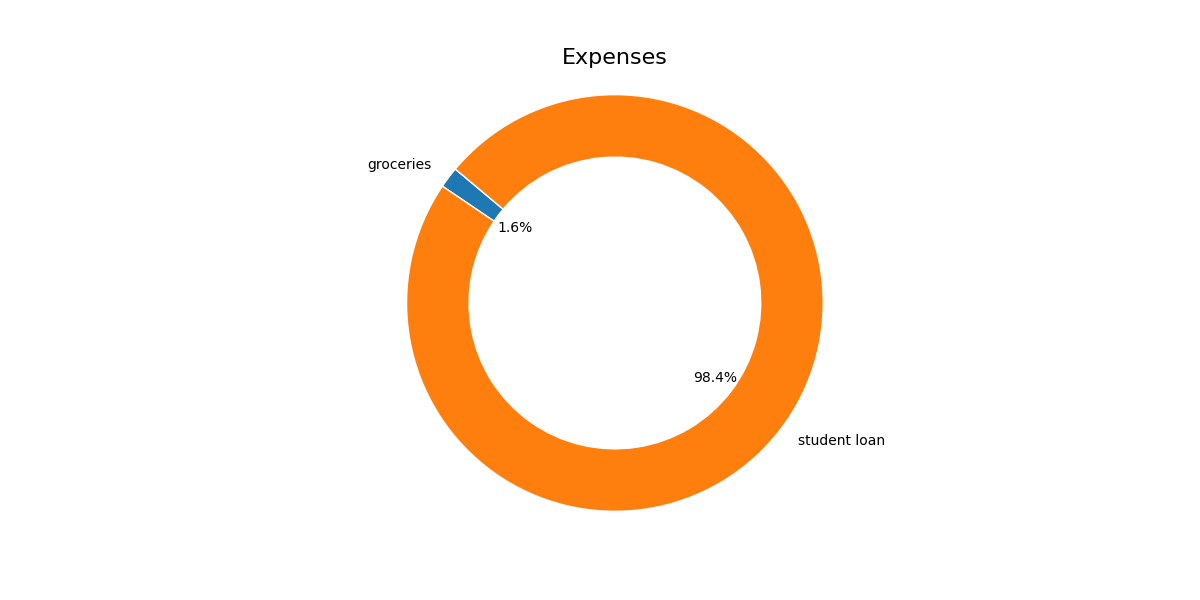
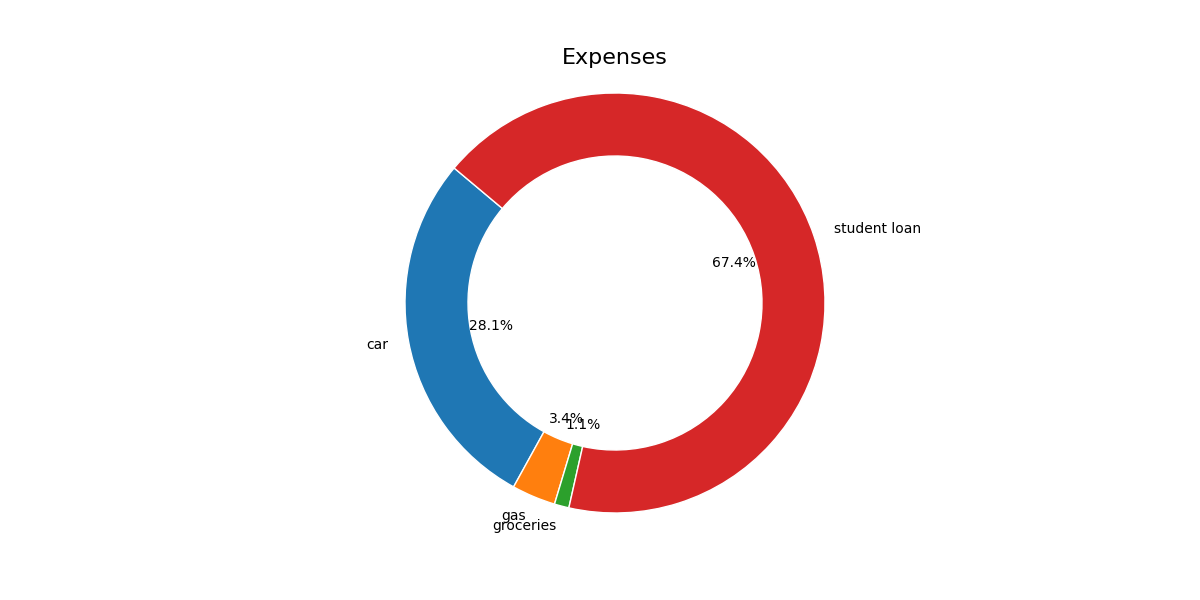
Bug fixes and fixing methods for graph production

Changed region(s): [[0.3083, 0.15, 0.7708, 0.87], [0.4008, 0.84, 0.4625, 0.9]]

diff --git a/templates/index.html b/templates/index.html
@@ -51,21 +51,7 @@
     </form>
     <h1>Finance Dashboard</h1>
 
-    {% if pie_chart_available %}
-    <h2>Expense Pie Chart</h2>
-    <img src="{{ url_for('static', filename='images/exp_pie_chart.png') }}" alt="Expenses" width="800" height="400">
-    {% else %}
-    <p>No data available for the pie chart.</p>
-    {% endif %}
-    {% with messages = get_flashed_messages() %}
-        {% if messages %}
-            <ul class="flashes">
-                {% for message in messages %}
-                    <li>{{ message }}</li>
-                {% endfor %}
-            </ul>
-        {% endif %}
-    {% endwith %}
+    
     <h3 class="header">Finance Analysis:</h3>
     <a href="excel/finance_example.xlsx" download>Download Spreadsheet</a>
     <div class=""wrapper">
@@ -94,6 +80,83 @@
             </form>
         </div>
     </div>
+    <!--Here is beginning of our tab creation-->
+    <div class="tab-nav">
+        <button class="tab-btn" data-tab="income">Income</button>
+        <button class="tab-btn" data-tab="expense">Expense</button>
+        <button class="tab-btn" data-tab="stock">Stock</button>
+    </div>
+    <div class="section-container" id="income-section">
+        {% if pie_chart_available %}
+    <h2>Income Pie Chart</h2>
+    <img src="{{ url_for('static', filename='images/inc_pie_chart.png') }}" alt="Income" width="800" height="400">
+    {% else %}
+    <p>No data available for the pie chart.</p>
+    {% endif %}
+    {% with messages = get_flashed_messages() %}
+        {% if messages %}
+            <ul class="flashes">
+                {% for message in messages %}
+                    <li>{{ message }}</li>
+                {% endfor %}
+            </ul>
+        {% endif %}
+    {% endwith %}
+    </div>
+
+    <div class="section-container" id="expense-section">
+        {% if pie_chart_available %}
+    <h2>Expense Pie Chart</h2>
+    <img src="{{ url_for('static', filename='images/exp_pie_chart.png') }}" alt="Expenses" width="800" height="400">
+    {% else %}
+    <p>No data available for the pie chart.</p>
+    {% endif %}
+    {% with messages = get_flashed_messages() %}
+        {% if messages %}
+            <ul class="flashes">
+                {% for message in messages %}
+                    <li>{{ message }}</li>
+                {% endfor %}
+            </ul>
+        {% endif %}
+    {% endwith %}
+    </div>
+
+    <div class="section-container" id="stock-section">
+        {% if pie_chart_available %}
+        <h2>Investment Pie Chart</h2>
+        <img src="{{ url_for('static', filename='images/inv_pie_chart.png') }}" alt="Investment" width="800" height="400">
+        {% else %}
+        <p>No data available for the pie chart.</p>
+        {% endif %}
+        {% with messages = get_flashed_messages() %}
+            {% if messages %}
+                <ul class="flashes">
+                    {% for message in messages %}
+                        <li>{{ message }}</li>
+                    {% endfor %}
+                </ul>
+            {% endif %}
+        {% endwith %}
+    </div>
+    <script>
+        // JavaScript for tab interaction
+        const tabButtons = document.querySelectorAll('.tab-btn');
+        const sectionContainers = document.querySelectorAll('.section-container');
+    
+        tabButtons.forEach(button => {
+            button.addEventListener('click', () => {
+                const tab = button.dataset.tab;
+                // Hide all section containers
+                sectionContainers.forEach(container => {
+                    container.style.display = 'none';
+                });
+                // Show the selected section container
+                document.getElementById(`${tab}-section`).style.display = 'block';
+            });
+        });
+    </script>
+
 </body>
 
 </html>

diff --git a/templates/register.html b/templates/register.html
@@ -8,7 +8,7 @@
     <link rel="stylesheet" href="{{ url_for('static', filename='css/style.css') }}">
 </head>
 
-<body class="contact-page">
+<body class="login-page">
     <header>
         <h2 class="logo">Finance Guru</h3>
             <nav class="navigation">
@@ -19,13 +19,7 @@
             </nav>
     </header>
 
-    <main>
-        <h2>Contact Info: </h2>
-        <p>
-            cadeagostinelli@gmail.com
-            <a href="mailto:cadeagostinelli@gmail.com">Email Me</a>
-        </p>
-    </main>
+
 </body>
 
 </html>

diff --git a/main.py b/main.py
@@ -52,9 +52,31 @@ def upload():
         if not df_income.empty:
             total_income = df_income['amount'].sum()
             flash(f'Total Income: ${total_income:.2f}', 'success')
+            income_data = df_income.groupby('source')['amount'].sum()
+
+            # Plotting the pie chart for income
+            fig, ax = plt.subplots(figsize=(12, 6))
+            ax.pie(income_data, labels=income_data.index, autopct='%1.1f%%', startangle=140, wedgeprops=dict(width=0.3, edgecolor='w'))
+            ax.set_title('Income', fontsize=16)
+            ax.axis('equal')  # Equal aspect ratio ensures that pie is drawn as a circle.
+
+            # Convert the plot to an image
+            image_path = os.path.join(app.static_folder, 'images', 'inc_pie_chart.png')
+            canvas = FigureCanvas(fig)
+            canvas.print_png(image_path)
+
+            # Set pie_chart_available to True
+            pie_chart_available = True
+
+        else:
+            # Set pie_chart_available to False if no income data
+            pie_chart_available = False
+
 
         # Process expense data
         if not df_expense.empty:
+            total_expense = df_expense['amount'].sum()
+            flash(f'Total Expense: ${total_expense:.2f}', 'success')
             # Count occurrences of each expense source
             expense_data = df_expense.groupby('source')['amount'].sum()
 
@@ -66,6 +88,31 @@ def upload():
 
             # Convert the plot to an image
             image_path = os.path.join(app.static_folder, 'images', 'exp_pie_chart.png')
+            canvas = FigureCanvas(fig)
+            canvas.print_png(image_path)
+
+            # Set pie_chart_available to True
+            pie_chart_available = True
+
+        else:
+            # Set pie_chart_available to False if no expense data
+            pie_chart_available = False
+
+        # Process expense data
+        if not df_investment.empty:
+            total_investment = df_investment['amount'].sum()
+            flash(f'Total Investment: ${total_investment:.2f}', 'success')
+            # Count occurrences of each expense source
+            investment_data = df_investment.groupby('source')['amount'].sum()
+
+            # Plotting the pie chart for expenses
+            fig, ax = plt.subplots(figsize=(12, 6))
+            ax.pie(investment_data, labels=investment_data.index, autopct='%1.1f%%', startangle=140, wedgeprops=dict(width=0.3, edgecolor='w'))
+            ax.set_title('Investments', fontsize=16)
+            ax.axis('equal')  # Equal aspect ratio ensures that pie is drawn as a circle.
+
+            # Convert the plot to an image
+            image_path = os.path.join(app.static_folder, 'images', 'inv_pie_chart.png')
             canvas = FigureCanvas(fig)
             canvas.print_png(image_path)
 
